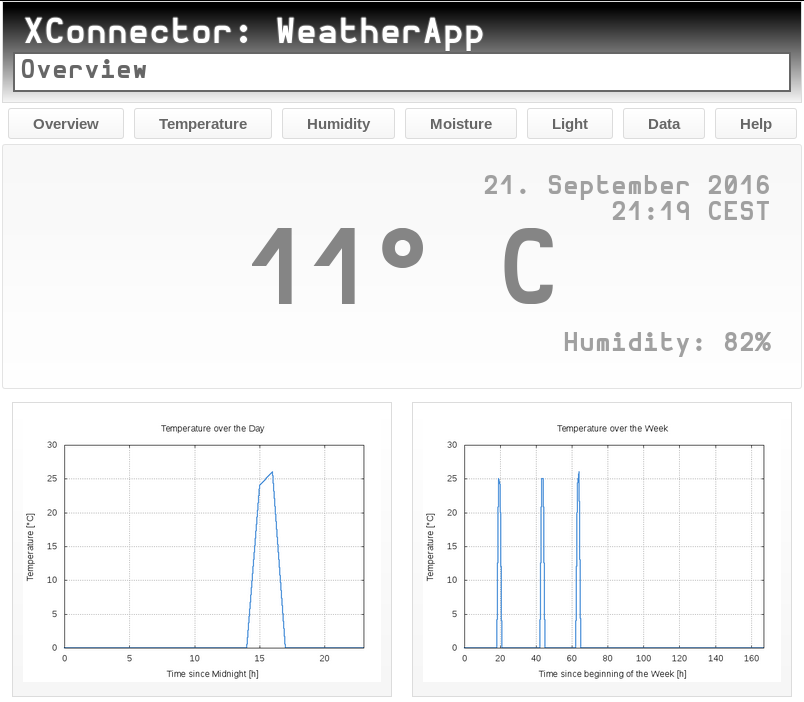
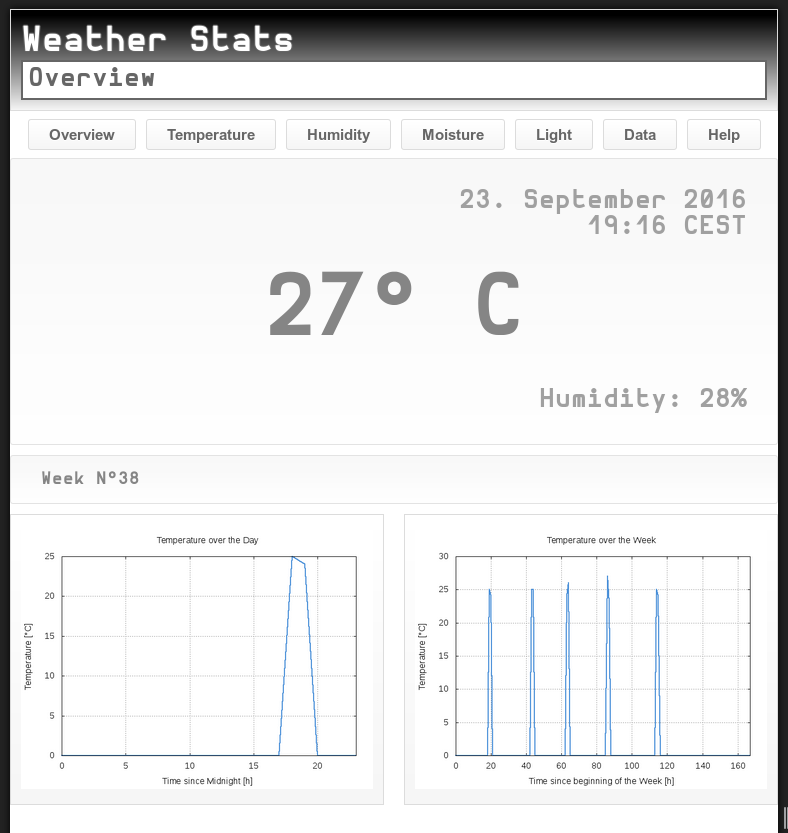
Consistent web design

Changed region(s): [[0.0, 0.0, 1.0, 1.0], [0.3046, 0.3291, 0.5482, 0.4487]]

diff --git a/share/xconn/lib/xconn/web/static/stylesheets/main.css b/share/xconn/lib/xconn/web/static/stylesheets/main.css
@@ -11,9 +11,16 @@
   font-family: 'DefaultMono';
 }
 
-html, body
-{
+html {
+  background-color: #000;
+}
+
+body {
   margin: auto;
+  background-color: #fff;
+  margin-top: 10px;
+  margin-bottom: 10px;
+  padding-bottom: 10px;
 }
 
 textarea {
@@ -38,7 +45,6 @@ header h1 p {
   text-shadow: -1px 0 #666, 0 1px #666, 1px 0 #666, 0 -1px #666;
   margin-bottom: 10px;
   display: inline;
-  padding: 10px;
   padding-bottom: 0px;
 }
 
@@ -92,7 +98,7 @@ button#autoreload {
   font-size: 16px;
 }
 
-section.current {
+section.current, section.week {
   border: 1px solid #dcdcdc;
   border-radius: 3px;
   background: linear-gradient(to bottom, #f6f6f6 5%, #ffffff 100%);
@@ -101,8 +107,12 @@ section.current {
   padding: 30px;
 }
 
+section.week {
+  padding-top: 15px;
+  padding-bottom: 15px;
+}
+
 section.current h2 {
-  font-size: 6em;
   text-align: center;
   color: #666666;
   margin-top: 30px;
@@ -110,9 +120,13 @@ section.current h2 {
 }
 
 section.current h3 {
-  font-size: 1.5em;
   text-align: right;
   color: #888888;
+}
+
+section.week h4 {
+  text-align: left;
+  color: #666666;
 }
 
 section.plot {
@@ -122,7 +136,18 @@ section.plot {
   background-color: #ffffff;
   border: 1px solid #dcdcdc;
   padding: 10px;
+}
+
+section.left {
+  float: left;
   margin: 10px;
+  margin-left: 0px;
+}
+
+section.right {
+  float: right;
+  margin: 10px;
+  margin-right: 0px;
 }
 
 section.plot img {
@@ -132,33 +157,33 @@ section.plot img {
 
 /* iPhone5 */
 @media screen and (min-width: 0px) {
-  html, body { width: 320px; }
+  body { width: 320px; }
   textarea { width: 318px; }
   textarea { font-size: 11px; }
-  section.plot { width: 278px; }
-  section.current { width: 258px; }
+  section.plot { width: 288px; }
   section.current h2 { font-size: 3em; }
   section.current h3 { font-size: .8em; }
+  section.week h4 { font-size: .8em; }
 }
 
 /* iPhone6+ */
 @media screen and (min-width: 414px) {
-  html, body { width: 414px; }
+  body { width: 414px; }
   textarea { width: 412px; }
   textarea { font-size: 13px; }
-  section.plot { width: 372px; }
-  section.current { width: 352px; }
+  section.plot { width: 382px; }
   section.current h2 { font-size: 3.2em; }
   section.current h3 { font-size: 1em; }
+  section.week h4 { font-size: 1em; }
 }
 
 /* iPad */
 @media screen and (min-width: 768px) {
-  html, body { width: 768px; }
+  body { width: 768px; }
   textarea { width: 766px; }
   textarea { font-size: 14px; }
-  section.plot { width: 342px; }
-  section.current { width: 706px; }
+  section.plot { width: 352px; }
   section.current h2 { font-size: 5em; }
   section.current h3 { font-size: 1.5em; }
+  section.week h4 { font-size: 1em; }
 }

diff --git a/share/xconn/lib/xconn/web.rb b/share/xconn/lib/xconn/web.rb
@@ -14,15 +14,12 @@ module XConn
         File.join(File.dirname(__FILE__), %w[web includes])
 
     Defaults = {
-      title: 'XConnector: WeatherApp',
+      title: 'Weather Stats',
       subtitle: 'Overview'
     }
 
     get '/' do
-      liquid :index, :locals => Defaults.merge(current(Logfile)).merge({
-        date: Time.now.strftime("%d. %B %Y"),
-        time: Time.now.strftime("%H:%M %Z")
-      })
+      liquid :index, :locals => Defaults.merge(current(Logfile))
     end
 
     get '/temperature' do
@@ -48,7 +45,7 @@ module XConn
         xrange: '["0":"167"]'
       }
 
-      x, y = format_week(config) do |y, year, month, week, line|
+      x, y, week = format_week(config) do |y, year, month, week, line|
         if line =~ /#{year}\-#{month}\-(\d+), (\d+):\d+:\d+ \+0200: \- (\d+)/
           if Date.parse(line[0..9]).strftime("%W") == week
             day_of_the_week = Date.parse("#{year}-#{month}-#{$1}").strftime("%w")
@@ -59,7 +56,8 @@ module XConn
       end
 
       liquid :temperature, :locals => Defaults.merge({
-        subtitle: 'Statistics about temperature measurement'
+        subtitle: 'Temperature',
+        week: week
       })
     end
 
@@ -86,7 +84,7 @@ module XConn
         xrange: '["0":"167"]'
       }
 
-      x, y = format_week(config) do |y, year, month, week, line|
+      x, y, week = format_week(config) do |y, year, month, week, line|
         if line =~ /#{year}\-#{month}\-(\d+), (\d+):\d+:\d+ \+0200: \- \d+ (\d+)/
           if Date.parse(line[0..9]).strftime("%W") == week
             day_of_the_week = Date.parse("#{year}-#{month}-#{$1}").strftime("%w")
@@ -97,7 +95,8 @@ module XConn
       end
 
       liquid :humidity, :locals => Defaults.merge({
-        subtitle: 'Statistics about air humidity'
+        subtitle: 'Air humidity',
+        week: week
       })
     end
 
@@ -124,7 +123,7 @@ module XConn
         xrange: '["0":"167"]'
       }
 
-      x, y = format_week(config) do |y, year, month, week, line|
+      x, y, week = format_week(config) do |y, year, month, week, line|
         if line =~ /#{year}\-#{month}\-(\d+), (\d+):\d+:\d+ \+0200: \- \d+ \d+ (\d+)/
           if Date.parse(line[0..9]).strftime("%W") == week
             day_of_the_week = Date.parse("#{year}-#{month}-#{$1}").strftime("%w")
@@ -134,7 +133,8 @@ module XConn
         end
       end
       liquid :moisture, :locals => Defaults.merge({
-        subtitle: 'Statistics about soil moisture'
+        subtitle: 'Soil moisture',
+        week: week
       })
     end
 
@@ -161,7 +161,7 @@ module XConn
         xrange: '["0":"167"]'
       }
 
-      x, y = format_week(config) do |y, year, month, week, line|
+      x, y, week = format_week(config) do |y, year, month, week, line|
         if line =~ /#{year}\-#{month}\-(\d+), (\d+):\d+:\d+ \+0200: \- \d+ \d+ \d+ (\d+)/
           if Date.parse(line[0..9]).strftime("%W") == week
             day_of_the_week = Date.parse("#{year}-#{month}-#{$1}").strftime("%w")
@@ -172,13 +172,14 @@ module XConn
       end
 
       liquid :light, :locals => Defaults.merge({
-        subtitle: 'Statistics about light conditions'
+        subtitle: 'Light conditions',
+        week: week
       })
     end
 
     get '/raw' do
       liquid :raw, :locals => Defaults.merge({
-        subtitle: 'Unfilterd recived serial data',
+        subtitle: 'Serial data',
         lines: File.read(Logfile)
       })
     end

diff --git a/share/xconn/lib/xconn/ctrl.rb b/share/xconn/lib/xconn/ctrl.rb
@@ -3,17 +3,23 @@ module XConn
   module Filter
 
     def current(logfile)
+      time = String.new
+      date = String.new
       temperature = 0;
       humidity = 0;
       moisture = 0;
       light = 0;
 
       line = File.readlines(logfile)[-1..-1].last
-      if line =~ /([-]*\d+) (\d+) (\d+) (\d+)/
-        temperature = $1.to_s
-        humidity = $2.to_s
+      if line =~ /([\-\d]+, [:\d]+ \+\d+): - (\d+) (\d+) (\d+) (\d+)/
+        time = Time.parse($1).strftime("%H:%M %Z")
+        date = Time.parse($1).strftime("%d. %B %Y")
+        temperature = $2.to_s
+        humidity = $3.to_s
       end
       {
+        time: time,
+        date: date,
         temperature: temperature,
         humidity: humidity,
         moisture: moisture,
@@ -71,8 +77,10 @@ module XConn
           yield y, year, month, week, line
         end
 
-        return plot file, x, y, opts
+        return *plot(file, x, y, opts), week
       end
+
+      return 0, 0, week
     end
 
     def format_day(opts, time = Time.new)
